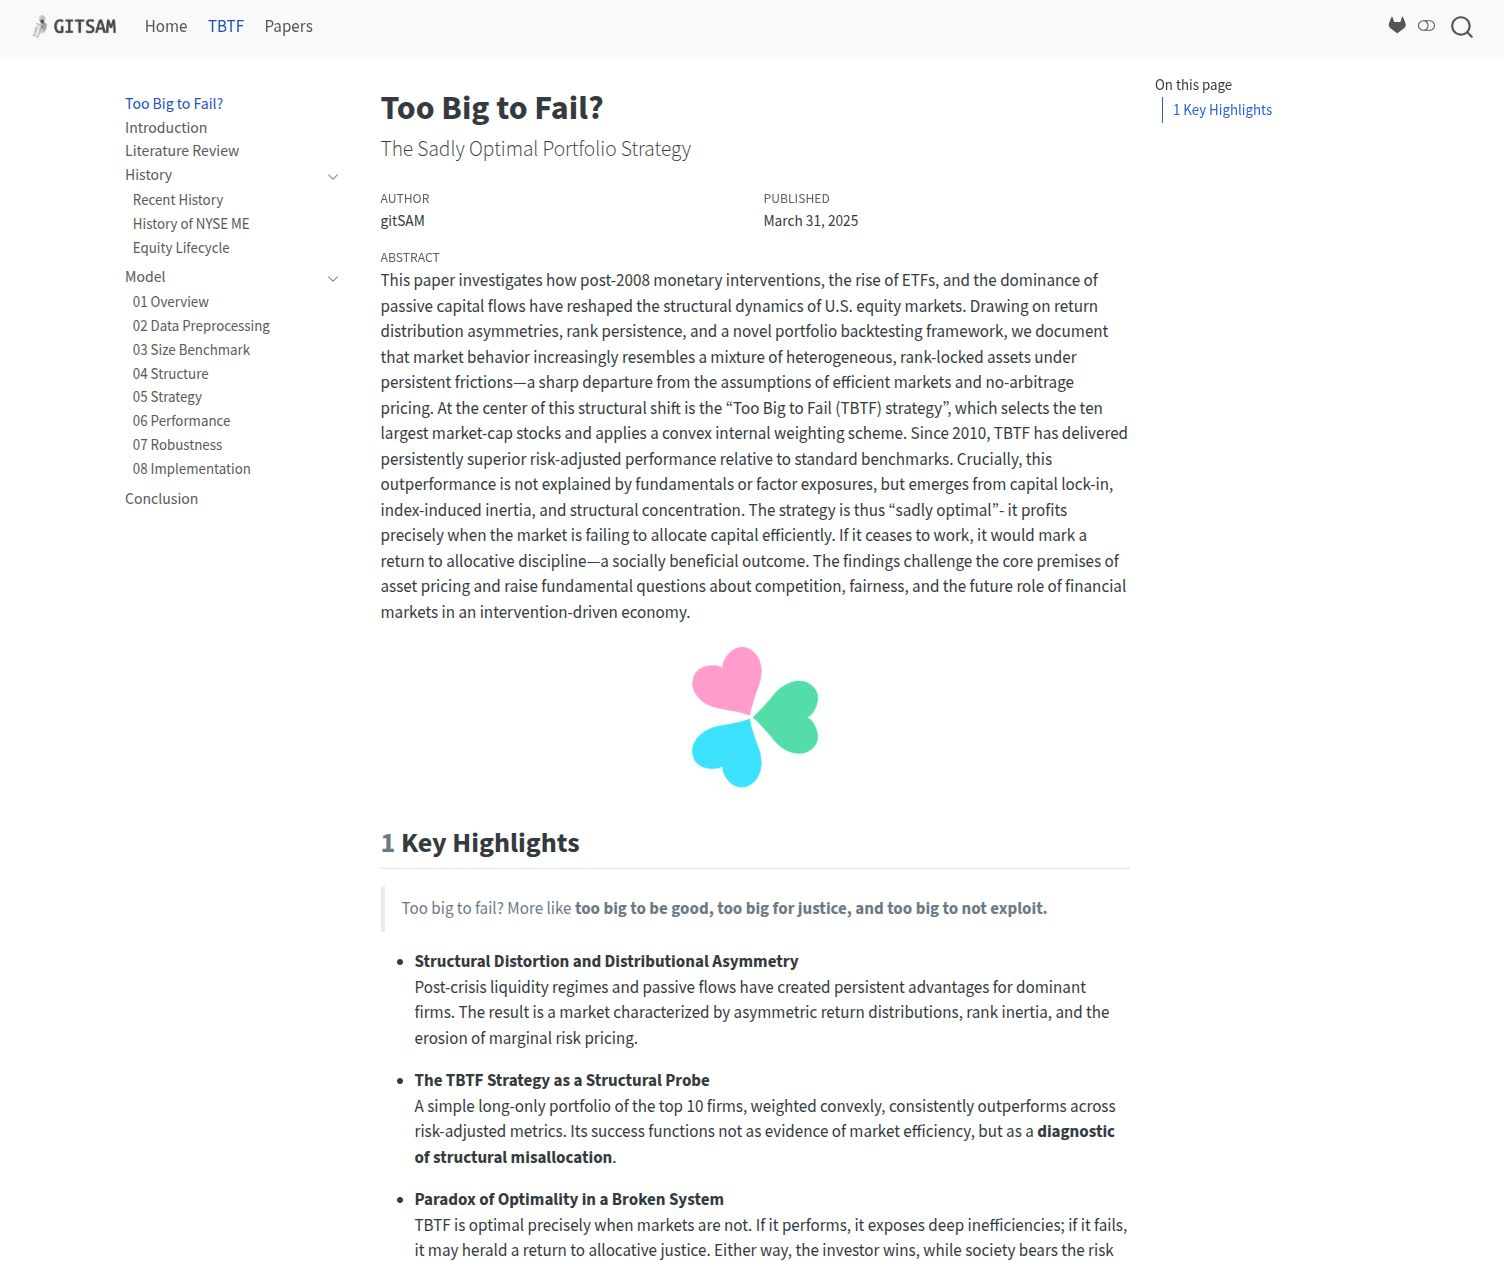
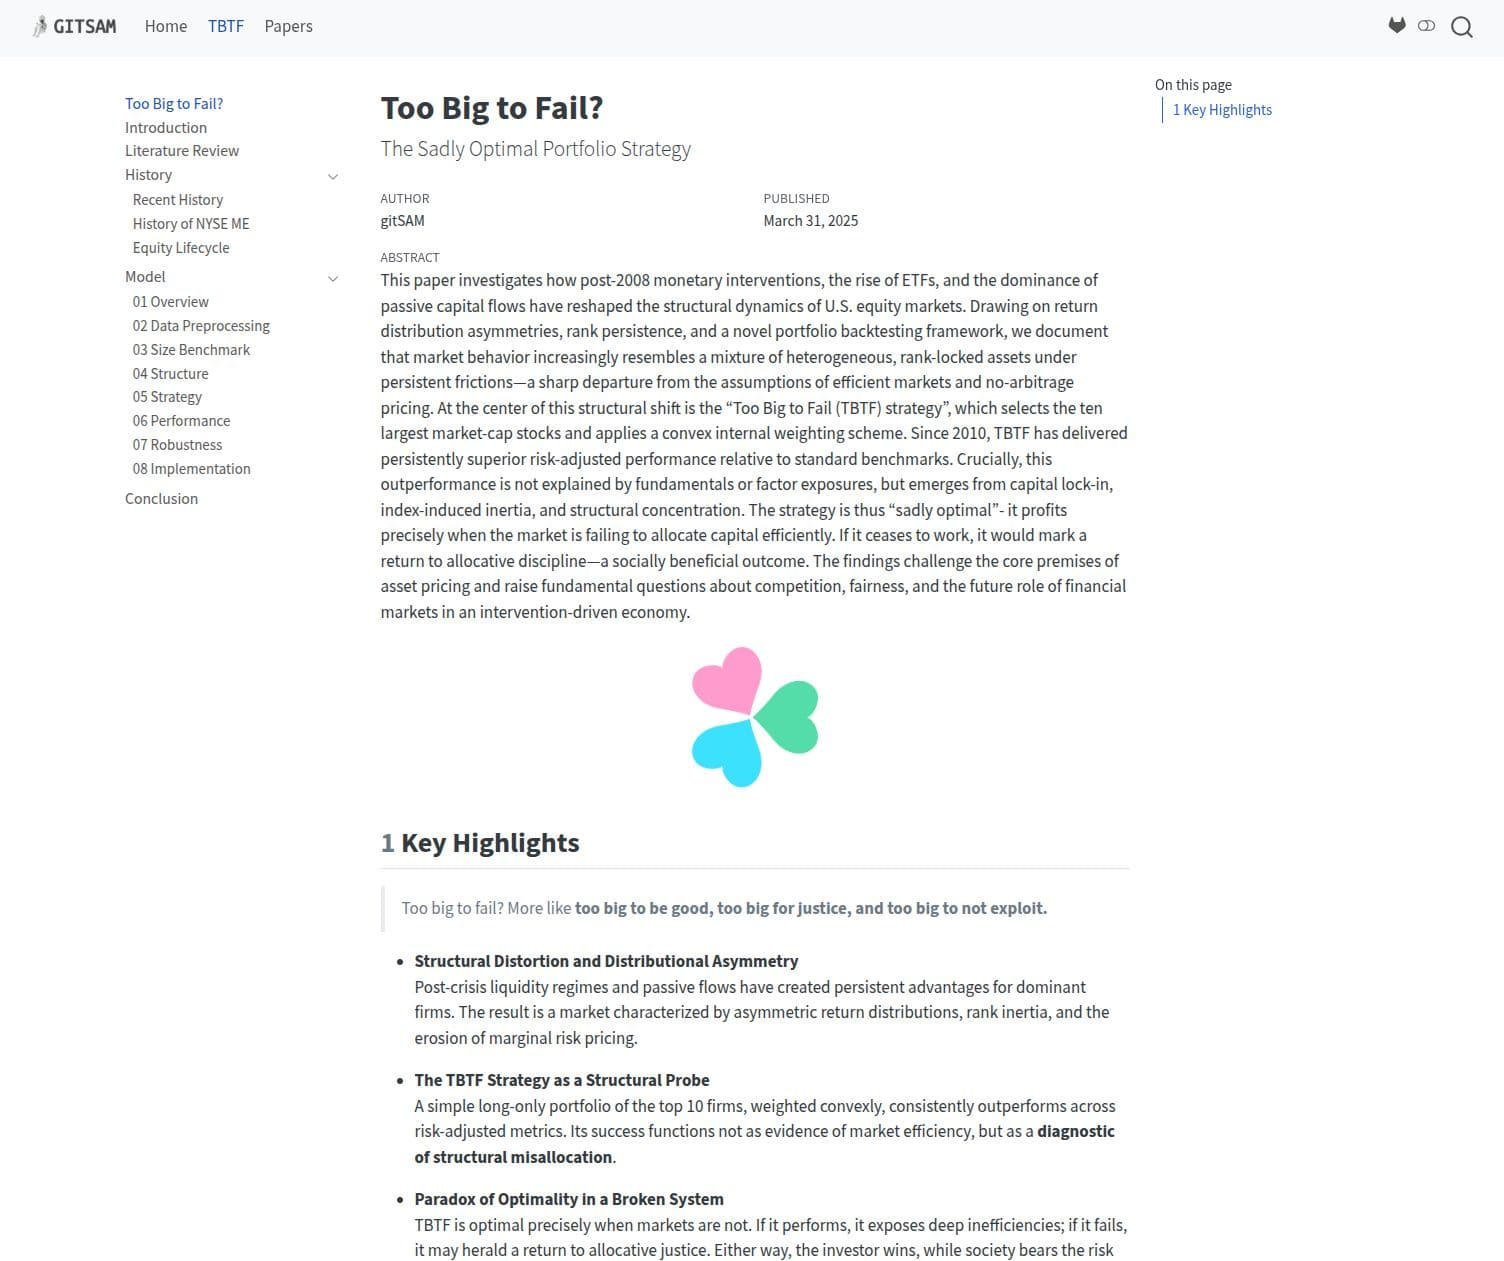
changed: cards

diff --git a/index.html b/index.html
@@ -574,7 +574,7 @@
                         <div class="absolute top-4 left-4 font-black text-[8px] bg-white px-1 py-0.5 border border-black z-10 uppercase tracking-tighter">0${index + 1} // ${item.repo}</div>
                     </div>
                     <div class="p-6 sm:p-8 flex flex-col flex-grow">
-                        <h3 class="text-lg sm:text-xl font-black mb-3 leading-[1.1] tracking-tighter">${item.title}</h3>
+                        <h3 class="text-lg sm:text-[18px] font-black mb-3 leading-[1.1] tracking-tighter">${item.title}</h3>
                         <p class="text-[11px] mb-8 flex-grow leading-relaxed font-medium opacity-60">${item.description}</p>
                         <div class="mt-auto pt-6 border-t-[2px] border-black border-opacity-10 flex items-center justify-between">
                             <a href="${item.url}" target="_blank" class="inline-flex items-center gap-2 group text-[10px] font-black uppercase tracking-widest hover:text-[var(--bauhaus-red)] transition-colors">
